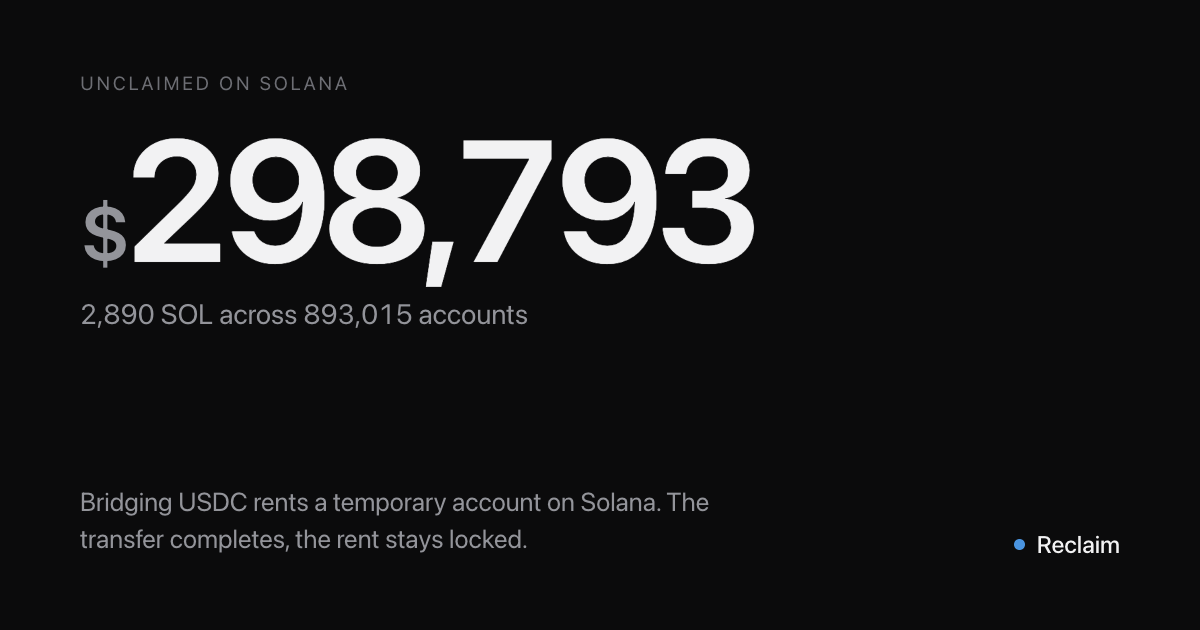
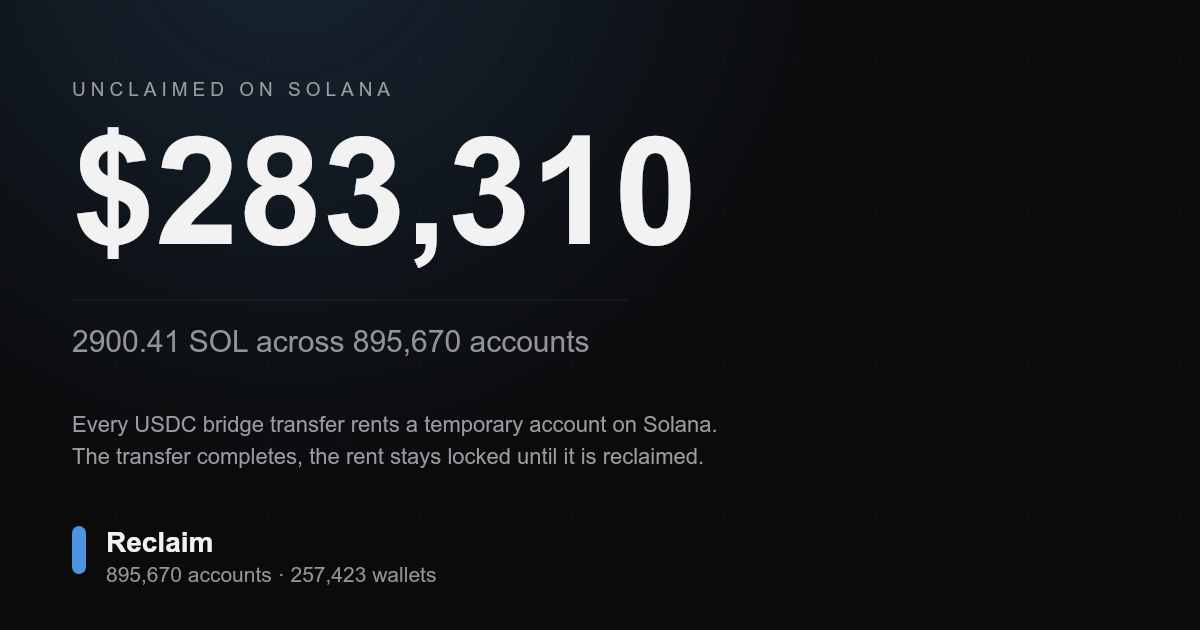
feat: regenerate og image with live stats each update

diff --git a/src/cli/og.ts b/src/cli/og.ts
@@ -1,0 +1,183 @@
+import { readFileSync, writeFileSync } from "node:fs";
+import { createCanvas, GlobalFonts } from "@napi-rs/canvas";
+import { Stats } from "../cctp/count";
+
+/**
+ * Renders a 1200x630 social-card image from the latest stats.
+ * The updater runs this every time stats refresh so shared links
+ * always show the current figure instead of a frozen snapshot.
+ */
+
+const W = 1200;
+const H = 630;
+const BG = "#0b0b0c";
+const FG = "#f2f2f3";
+const MUTED = "#93949a";
+const FAINT = "#9a9ba1";
+const ACCENT = "#4a94e0";
+const LINE = "rgba(255,255,255,0.08)";
+
+// Register a font that is present on both mac and the windows updater host.
+function ensureFonts(): string {
+  const candidates = [
+    ["C:\\Windows\\Fonts\\segoeuib.ttf", "Segoe UI"],
+    ["C:\\Windows\\Fonts\\arialbd.ttf", "Arial"],
+    ["/System/Library/Fonts/Helvetica.ttc", "Helvetica"],
+  ];
+
+  for (const [path, name] of candidates) {
+    try {
+      GlobalFonts.registerFromPath(path, name);
+    } catch {
+      // ignore, we fall back to an already-registered system font below
+    }
+  }
+
+  const families = GlobalFonts.families;
+  const has = (re: RegExp) => families.some((f) => re.test(f.family));
+  if (has(/segoe ui/i)) return "Segoe UI";
+  if (has(/arial/i)) return "Arial";
+  if (has(/inter/i)) return "Inter";
+  return "sans-serif";
+}
+
+function roundedRect(
+  ctx: any,
+  x: number,
+  y: number,
+  w: number,
+  h: number,
+  r: number
+): void {
+  ctx.beginPath();
+  ctx.moveTo(x + r, y);
+  ctx.arcTo(x + w, y, x + w, y + h, r);
+  ctx.arcTo(x + w, y + h, x, y + h, r);
+  ctx.arcTo(x, y + h, x, y, r);
+  ctx.arcTo(x, y, x + w, y, r);
+  ctx.closePath();
+}
+
+function fmt(value: number): string {
+  return value.toLocaleString("en-US");
+}
+
+export function renderOg(stats: Stats, price: number): Buffer {
+  const font = ensureFonts();
+  const canvas = createCanvas(W, H);
+  const ctx = canvas.getContext("2d");
+
+  const usd = Math.round((stats.lamports / 1e9) * price);
+  const sol = stats.lamports / 1e9;
+
+  // Background
+  ctx.fillStyle = BG;
+  ctx.fillRect(0, 0, W, H);
+
+  // Subtle top-left glow
+  const glow = ctx.createRadialGradient(W * 0.24, -80, 40, W * 0.24, -80, 560);
+  glow.addColorStop(0, "rgba(74,148,224,0.18)");
+  glow.addColorStop(1, "rgba(74,148,224,0)");
+  ctx.fillStyle = glow;
+  ctx.fillRect(0, 0, W, H);
+
+  // Soft grid of faint dots for texture
+  ctx.fillStyle = "rgba(255,255,255,0.035)";
+  for (let x = 116; x < W; x += 76) {
+    for (let y = 60; y < H; y += 76) {
+      ctx.beginPath();
+      ctx.arc(x, y, 1.4, 0, Math.PI * 2);
+      ctx.fill();
+    }
+  }
+
+  // Eyebrow
+  ctx.fillStyle = FAINT;
+  ctx.font = `500 19px ${font}`;
+  ctx.letterSpacing = "5px";
+  ctx.textBaseline = "alphabetic";
+  ctx.fillText("UNCLAIMED ON SOLANA", 72, 96);
+  ctx.letterSpacing = "0px";
+
+  // Hero USD figure
+  const hero = `$${fmt(usd)}`;
+  ctx.fillStyle = FG;
+  ctx.font = `600 150px ${font}`;
+  ctx.textBaseline = "alphabetic";
+  ctx.fillText(hero, 72, 244);
+
+  // Separator line + secondary
+  ctx.strokeStyle = LINE;
+  ctx.beginPath();
+  ctx.moveTo(72, 300);
+  ctx.lineTo(628, 300);
+  ctx.stroke();
+
+  ctx.fillStyle = MUTED;
+  ctx.font = `500 30px ${font}`;
+  ctx.fillText(`${sol.toFixed(2)} SOL across ${fmt(stats.accounts)} accounts`, 72, 352);
+
+  // Descriptor
+  ctx.fillStyle = FAINT;
+  ctx.font = `400 22px ${font}`;
+  ctx.fillText(
+    "Every USDC bridge transfer rents a temporary account on Solana.",
+    72,
+    432
+  );
+  ctx.fillText(
+    "The transfer completes, the rent stays locked until it is reclaimed.",
+    72,
+    464
+  );
+
+  // Accent pillar (brand mark), aligned to the wordmark row
+  ctx.fillStyle = ACCENT;
+  roundedRect(ctx, 72, H - 104, 14, 48, 7);
+  ctx.fill();
+
+  // Wordmark
+  ctx.fillStyle = FG;
+  ctx.font = `600 28px ${font}`;
+  ctx.fillText("Reclaim", 106, H - 78);
+
+  // Secondary line below the wordmark
+  ctx.fillStyle = MUTED;
+  ctx.font = `400 21px ${font}`;
+  ctx.fillText(`${fmt(stats.accounts)} accounts · ${fmt(stats.wallets)} wallets`, 106, H - 48);
+
+  return canvas.toBuffer("image/png");
+}
+
+async function fetchPrice(): Promise<number> {
+  try {
+    const res = await fetch(
+      "https://lite-api.jup.ag/price/v3?ids=So11111111111111111111111111111111111111112"
+    );
+    const data = await res.json();
+    const value = data.So11111111111111111111111111111111111111112?.usdPrice;
+    if (typeof value === "number" && value > 0) return value;
+  } catch {
+    // fall through to the safe default below
+  }
+  return 100;
+}
+
+export async function generateOg(stats: Stats, path: string): Promise<void> {
+  const price = await fetchPrice();
+  const image = renderOg(stats, price);
+  writeFileSync(path, image);
+  console.log(
+    `wrote ${path} (${(image.length / 1024).toFixed(1)} KB) · $${fmt(
+      Math.round((stats.lamports / 1e9) * price)
+    )}`
+  );
+}
+
+if (process.argv[1] && /og\.(ts|js)$/.test(process.argv[1])) {
+  const stats: Stats = JSON.parse(readFileSync("public/stats.json", "utf8"));
+  generateOg(stats, "public/og.png").catch((error) => {
+    console.error(error);
+    process.exit(1);
+  });
+}

diff --git a/updater/run.ts b/updater/run.ts
@@ -3,6 +3,7 @@ import { Connection } from "@solana/web3.js";
 import { execFile } from "node:child_process";
 import { promisify } from "node:util";
 import { countStats, Stats } from "../src/cctp/count";
+import { generateOg } from "../src/cli/og";
 
 const RPC_URL = process.env.RPC_URL ?? "https://api.mainnet-beta.solana.com";
 const HISTORY_FILE = process.env.HISTORY_FILE ?? "history.json";
@@ -78,13 +79,20 @@ async function pushToRepo(stats: Stats): Promise<void> {
 
   writeFileSync(`${REPO_DIR}/public/stats.json`, JSON.stringify(stats, null, 2) + "\n");
 
-  const { stdout } = await git("status", "--porcelain", "public/stats.json");
+  // Regenerate the social-card image so shared links always show fresh figures.
+  try {
+    await generateOg(stats, `${REPO_DIR}/public/og.png`);
+  } catch (error) {
+    log(`og generation failed: ${message(error)}`);
+  }
+
+  const { stdout } = await git("status", "--porcelain", "public/stats.json", "public/og.png");
   if (stdout.trim() === "") {
     log("stats unchanged, nothing to push");
     return;
   }
 
-  await git("add", "public/stats.json");
+  await git("add", "public/stats.json", "public/og.png");
   await git("commit", "--quiet", "-m", `chore: stats ${stats.generatedAt.slice(0, 10)}`);
   try {
     await git("push", "--quiet", "origin", "HEAD:main");
@@ -95,7 +103,7 @@ async function pushToRepo(stats: Stats): Promise<void> {
     await git("push", "--quiet", "origin", "HEAD:main");
   }
 
-  log("pushed stats.json, cloudflare will rebuild");
+  log("pushed stats.json + og.png, cloudflare will rebuild");
 }
 
 async function once(): Promise<void> {

diff --git a/index.html b/index.html
@@ -17,11 +17,11 @@
     <meta property="og:title" content="Reclaim the SOL rent your USDC bridge left behind" />
     <meta property="og:description" content="Every CCTP transfer rents a temporary account on Solana. The transfer completes, the rent stays locked. Thousands of SOL sit unclaimed across hundreds of thousands of accounts." />
     <meta property="og:url" content="https://reclaim.cctp.workers.dev/" />
-    <meta property="og:image" content="https://reclaim.cctp.workers.dev/og.png" />
+    <meta property="og:image" content="https://reclaim.cctp.workers.dev/og.png?v=2" />
     <meta name="twitter:card" content="summary_large_image" />
     <meta name="twitter:title" content="Reclaim the SOL rent your USDC bridge left behind" />
     <meta name="twitter:description" content="Every CCTP transfer rents a temporary account on Solana. The rent stays locked until someone closes it. Free, non-custodial." />
-    <meta name="twitter:image" content="https://reclaim.cctp.workers.dev/og.png" />
+    <meta name="twitter:image" content="https://reclaim.cctp.workers.dev/og.png?v=2" />
     <title>Reclaim · CCTP rent on Solana</title>
   </head>
   <body>
